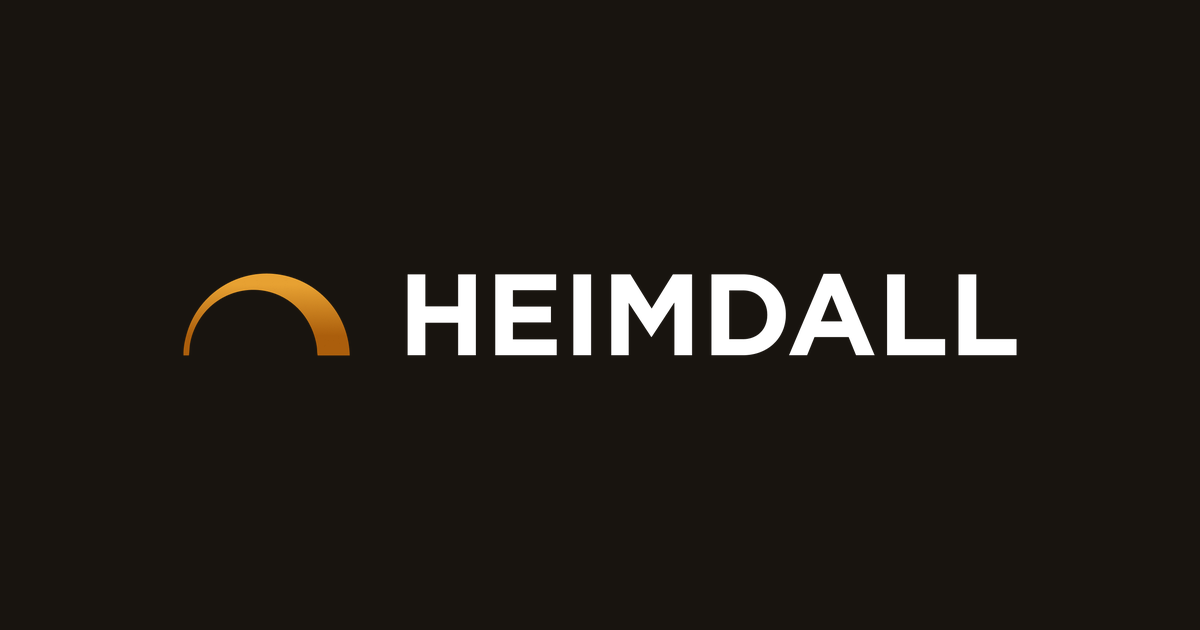
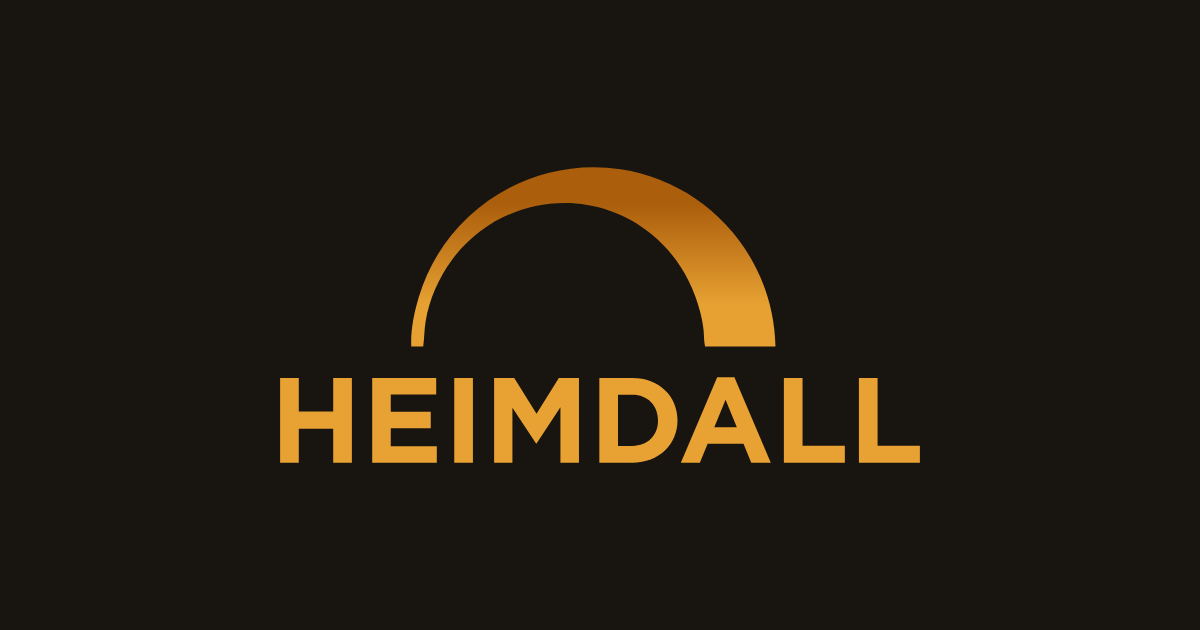
feat(frontend): inline SVG wordmark and brand mark from the brand files
Replace the two PNG wordmarks with one inline SVG whose letters take
currentColor, so it follows the theme with no image request. Add the arc
alone as BrandMark and use it in the app header below sm, where the full
wordmark plus the product nav overflowed a phone width. Wordmark drops to
1.25em and the brand links become flex containers so it sits centred.
Share card and apple-touch-icon regenerated from the designer's SVGs.

Changed region(s): [[0.3392, 0.2413, 0.8633, 0.573], [0.2158, 0.6032, 0.7708, 0.754], [0.1542, 0.4222, 0.3083, 0.573]]

diff --git a/frontend/src/components/wordmark.tsx b/frontend/src/components/wordmark.tsx
@@ -1,32 +1,49 @@
-import Image from "next/image";
+import { useId } from "react";
 
-import wordmarkOnDark from "@/assets/brand/wordmark-on-dark.png";
-import wordmarkOnLight from "@/assets/brand/wordmark-on-light.png";
+import { ArcGradient } from "@/components/brand-mark";
 import { cn } from "@/lib/utils";
 
+// HEIMDALL letterforms from the brand SVG (Gotham Bold outlines). Filled with
+// currentColor so the mark follows the surrounding text colour in both themes.
+const LETTERS = [
+  "M534.719 194.603V1.94161H577.104V78.1806H655.27V1.94161H697.655V194.603H655.27V117.263H577.104V194.603H534.719Z",
+  "M743.83 194.603V1.94161H889.152V39.6483H785.94V78.731H876.766V116.438H785.94V156.897H890.528V194.603H743.83Z",
+  "M930.14 194.603V1.94161H972.525V194.603H930.14Z",
+  "M1020.67 194.603V1.94161H1066.36L1117 83.41L1167.65 1.94161H1213.33V194.603H1171.22V68.8227L1117 151.117H1115.9L1062.23 69.6484V194.603H1020.67Z",
+  "M1259.62 194.603V1.94161H1334.76C1395.31 1.94161 1437.14 43.5015 1437.14 97.722V98.2724C1437.14 152.493 1395.31 194.603 1334.76 194.603H1259.62ZM1334.76 40.1987H1302V156.346H1334.76C1369.16 156.346 1392.83 132.952 1392.83 98.8229V98.2724C1392.83 64.1438 1369.16 40.1987 1334.76 40.1987Z",
+  "M1648.91 194.603H1604.6L1586.98 151.392H1505.52L1487.9 194.603H1444.69L1527.26 0.564941H1566.34L1648.91 194.603ZM1520.65 113.961H1571.85L1546.25 51.4831L1520.65 113.961Z",
+  "M1721.03 156.071H1817.09V194.603H1678.65V1.94133H1721.03V156.071Z",
+  "M1891.44 156.071H1987.49V194.603H1849.05V1.94133H1891.44V156.071Z",
+];
+
+const ARC =
+  "M396.719 195.168C371.179 195.168 345.639 195.168 320.099 195.168C318.719 189.568 318.979 183.388 318.429 177.588C317.769 170.588 316.209 163.448 314.459 156.648C306.049 123.968 287.779 94.0679 261.499 72.6479C194.249 17.8378 95.219 31.5578 44.159 101.168C29.859 120.658 19.729 143.758 15.759 167.628C14.239 176.748 14.359 185.988 13.099 195.108C8.76901 195.108 4.42901 195.108 0.0990082 195.108C-0.680992 177.158 3.24898 158.428 8.31898 141.358C36.279 47.1678 130.909 -12.5621 228.059 2.24786C324.009 16.8679 394.569 98.3678 396.719 195.168Z";
+
 /**
- * Brand wordmark (amber arc + HEIMDALL). Two exports with baked-in text colour,
- * swapped via the `.dark` class, and sized in em so a caller's `text-*` class
- * scales it the same way it scaled the old text-only mark. `sizes` keeps the
- * srcset around the rendered ~15rem instead of the 2000px source.
+ * Brand wordmark: amber arc + HEIMDALL. Sized in em so a caller's `text-*`
+ * class scales it; the letters take the caller's text colour.
  */
 export function Wordmark({ className }: { className?: string }) {
+  const id = useId();
   return (
-    <span className={cn("inline-flex items-center", className)}>
-      <Image
-        src={wordmarkOnLight}
-        alt="Heimdall"
-        priority
-        sizes="16rem"
-        className="h-[1.5em] w-auto dark:hidden"
+    <svg
+      viewBox="0 0 1988 196"
+      role="img"
+      aria-label="Heimdall"
+      className={cn("h-[1.25em] w-auto", className)}
+    >
+      <defs>
+        <ArcGradient id={id} />
+      </defs>
+      <path
+        fillRule="evenodd"
+        clipRule="evenodd"
+        d={ARC}
+        fill={`url(#${id})`}
       />
-      <Image
-        src={wordmarkOnDark}
-        alt="Heimdall"
-        priority
-        sizes="16rem"
-        className="hidden h-[1.5em] w-auto dark:block"
-      />
-    </span>
+      {LETTERS.map((d, i) => (
+        <path key={i} d={d} fill="currentColor" />
+      ))}
+    </svg>
   );
 }

diff --git a/frontend/src/components/brand-mark.tsx b/frontend/src/components/brand-mark.tsx
@@ -1,0 +1,40 @@
+import { useId } from "react";
+
+import { cn } from "@/lib/utils";
+
+/** The arc's amber gradient, shared with the wordmark so the two always match. */
+export function ArcGradient({ id }: { id: string }) {
+  return (
+    <linearGradient id={id} x1="0" y1="0" x2="0" y2="1">
+      <stop offset="0.24" stopColor="#AB5E0C" />
+      <stop offset="0.86" stopColor="#E7A132" />
+    </linearGradient>
+  );
+}
+
+export const ARC_PATH =
+  "M1330.16 654.379C1244.53 654.379 1158.89 654.379 1073.26 654.379C1068.63 635.602 1069.51 614.882 1067.66 595.435C1065.45 571.964 1060.22 548.025 1054.35 525.225C1026.15 415.652 964.895 315.4 876.781 243.581C651.298 59.8086 319.26 105.81 148.061 339.206C100.114 404.554 66.1494 482.006 52.8383 562.04C47.7419 592.618 48.1444 623.599 43.9197 654.177C29.4016 654.177 14.85 654.177 0.331965 654.177C-2.2833 593.993 10.8935 531.193 27.8927 473.959C121.64 158.149 438.925 -42.1196 764.66 7.53684C1086.37 56.5563 1322.95 329.818 1330.16 654.379Z";
+
+/** The arc alone (no text), for spaces too narrow for the full wordmark. */
+export function BrandMark({ className }: { className?: string }) {
+  // Gradient ids are document-global; two marks on one page must not share one.
+  const id = useId();
+  return (
+    <svg
+      viewBox="0 0 1331 655"
+      role="img"
+      aria-label="Heimdall"
+      className={cn("h-[1em] w-auto", className)}
+    >
+      <defs>
+        <ArcGradient id={id} />
+      </defs>
+      <path
+        fillRule="evenodd"
+        clipRule="evenodd"
+        d={ARC_PATH}
+        fill={`url(#${id})`}
+      />
+    </svg>
+  );
+}

diff --git a/frontend/src/components/site-header.tsx b/frontend/src/components/site-header.tsx
@@ -4,6 +4,7 @@ import { SettingsIcon } from "lucide-react";
 import Link from "next/link";
 import { usePathname } from "next/navigation";
 
+import { BrandMark } from "@/components/brand-mark";
 import { ThemeToggle } from "@/components/theme-toggle";
 import { Button, buttonVariants } from "@/components/ui/button";
 import { Wordmark } from "@/components/wordmark";
@@ -44,8 +45,15 @@ export function SiteHeader() {
     <header className="border-b">
       <div className="mx-auto flex h-14 max-w-6xl items-center justify-between px-4">
         <div className="flex items-center gap-5">
-          <Link href={homePath(user?.role)} aria-label="Heimdall home">
-            <Wordmark />
+          {/* The full wordmark plus the segmented nav overflow a phone
+              width, so the mark stands in for it there. */}
+          <Link
+            href={homePath(user?.role)}
+            aria-label="Heimdall home"
+            className="flex text-base"
+          >
+            <Wordmark className="hidden sm:block" />
+            <BrandMark className="h-[1.25em] sm:hidden" />
           </Link>
           {user && user.role !== "admin" && (
             // Segmented control: the active product area reads as a raised pill;

diff --git a/frontend/src/components/marketing-header.tsx b/frontend/src/components/marketing-header.tsx
@@ -9,7 +9,7 @@ export function MarketingHeader({ showLogin = true }: { showLogin?: boolean }) {
   return (
     <header className="sticky top-0 z-40 border-b bg-background/80 backdrop-blur">
       <div className="mx-auto flex h-16 max-w-5xl items-center justify-between px-4">
-        <Link href="/" aria-label="Heimdall home" className="text-base">
+        <Link href="/" aria-label="Heimdall home" className="flex text-base">
           <Wordmark />
         </Link>
         <nav className="flex items-center gap-3 text-sm sm:gap-4">

diff --git a/frontend/src/components/marketing-footer.tsx b/frontend/src/components/marketing-footer.tsx
@@ -8,7 +8,7 @@ export function MarketingFooter() {
     <footer className="border-t">
       <div className="mx-auto max-w-5xl space-y-5 px-4 py-10">
         <div className="flex flex-wrap items-center justify-between gap-4">
-          <Link href="/" aria-label="Heimdall home">
+          <Link href="/" aria-label="Heimdall home" className="flex">
             <Wordmark />
           </Link>
           <nav className="flex flex-wrap gap-4 text-sm text-muted-foreground">
